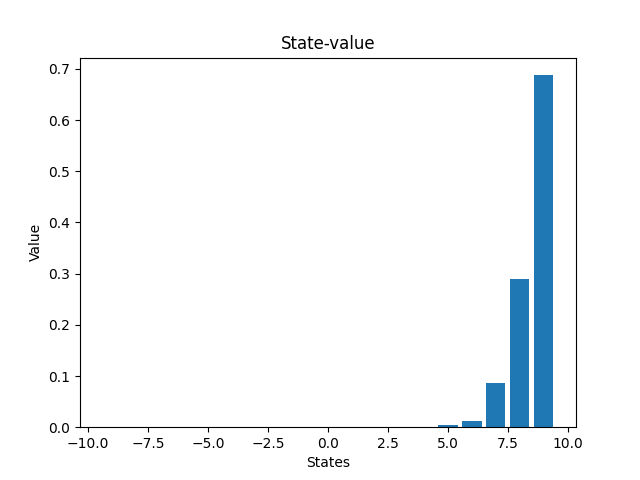
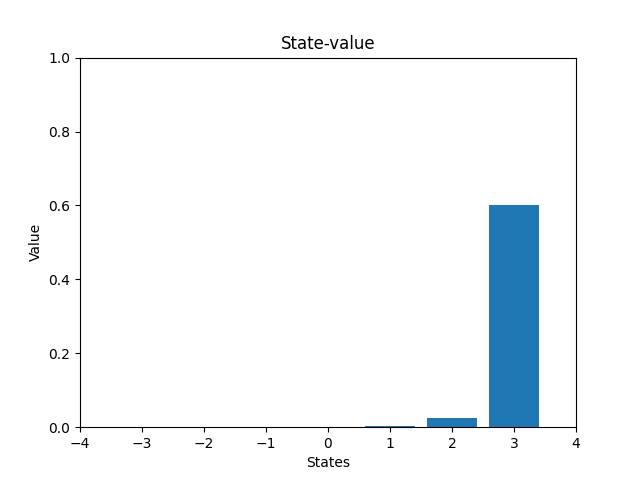
bugs fixed

diff --git a/estimators/mc_value_estimator.py b/estimators/mc_value_estimator.py
@@ -3,13 +3,13 @@ import matplotlib.pyplot as plt
 from matplotlib.animation import FuncAnimation
 
 class MonteCarloValueEstimator:
-    def __init__(self, n_states, dir_, gamma=0.5, max_state=10):
+    def __init__(self, n_states, dir_, gamma=0.5):
         self.n_states       = n_states
+        self.max_state      = self.n_states//2
         self.returns        = {}
-        self.state_values   = {}
+        self.state_values   = {} # Initializing the state-values to 0.5
         self.episode_states = [] # For making animation purposes
         self.gamma          = gamma
-        self.max_state      = max_state
         self.save_dir       = './logs/'+dir_
         os.makedirs(self.save_dir, exist_ok=True)
         os.makedirs(self.save_dir+'state_values/', exist_ok=True)
@@ -33,7 +33,7 @@ class MonteCarloValueEstimator:
         ax.set_xlim(-self.max_state, self.max_state)
         ax.set_ylim(-1, 1)
         ax.set_yticks([])
-        ax.set_xticks(range(-self.max_state,self.max_state))
+        ax.set_xticks(range(-self.max_state,self.max_state+1))
 
         agent, = ax.plot([], [], "o", markersize=20)
 
@@ -55,6 +55,8 @@ class MonteCarloValueEstimator:
 
     def plot_value(self, dir_):
         plt.figure()
+        plt.xlim(-self.max_state-1, self.max_state+1)
+        plt.ylim(0, 1)
         plt.bar(self.state_values.keys(), self.state_values.values())
         plt.xlabel("States")
         plt.ylabel("Value")

diff --git a/envs/random_walk.py b/envs/random_walk.py
@@ -1,12 +1,11 @@
 from envs.environment import Environment
 
 class RandomWalk1D(Environment):
-    def __init__(self, state_dim=1, action_dim=2, max_state=10):
-        super().__init__(state_dim=state_dim, action_dim=action_dim)
-        self.state_dim = self.state_dim
-        self.init_state      = 0.0  
-        self.far_right_state = max_state 
-        self.far_left_state  = -max_state
+    def __init__(self, n_state=10):
+        super().__init__()
+        self.init_state      = 0
+        self.far_right_state = n_state//2 + 1
+        self.far_left_state  = -self.far_right_state - 1
 
     def reset(self):
         self.current_state = self.init_state

diff --git a/experiments/random_walk_1d.py b/experiments/random_walk_1d.py
@@ -3,11 +3,11 @@ from envs.random_walk import RandomWalk1D
 from estimators.mc_value_estimator import MonteCarloValueEstimator
 
 seed = 0
-max_state = 10
+n_state = 7
 
 policy = RandomPolicy(action_dim=2, seed=seed)
-env    = RandomWalk1D(max_state=max_state)
-mc     = MonteCarloValueEstimator(env.state_dim, 'random_walk_1D/')
+env    = RandomWalk1D(n_state=n_state)
+mc     = MonteCarloValueEstimator(n_states=n_state, dir_='random_walk_1D/', gamma=0.9)
 
 n_episodes = 10
 

diff --git a/envs/environment.py b/envs/environment.py
@@ -1,7 +1,5 @@
 class Environment:
-    def __init__(self, state_dim, action_dim):
-        self.state_dim = state_dim
-        self.action_dim = action_dim
+    def __init__(self):
         self.init_state = None
         self.current_state = self.init_state
 
